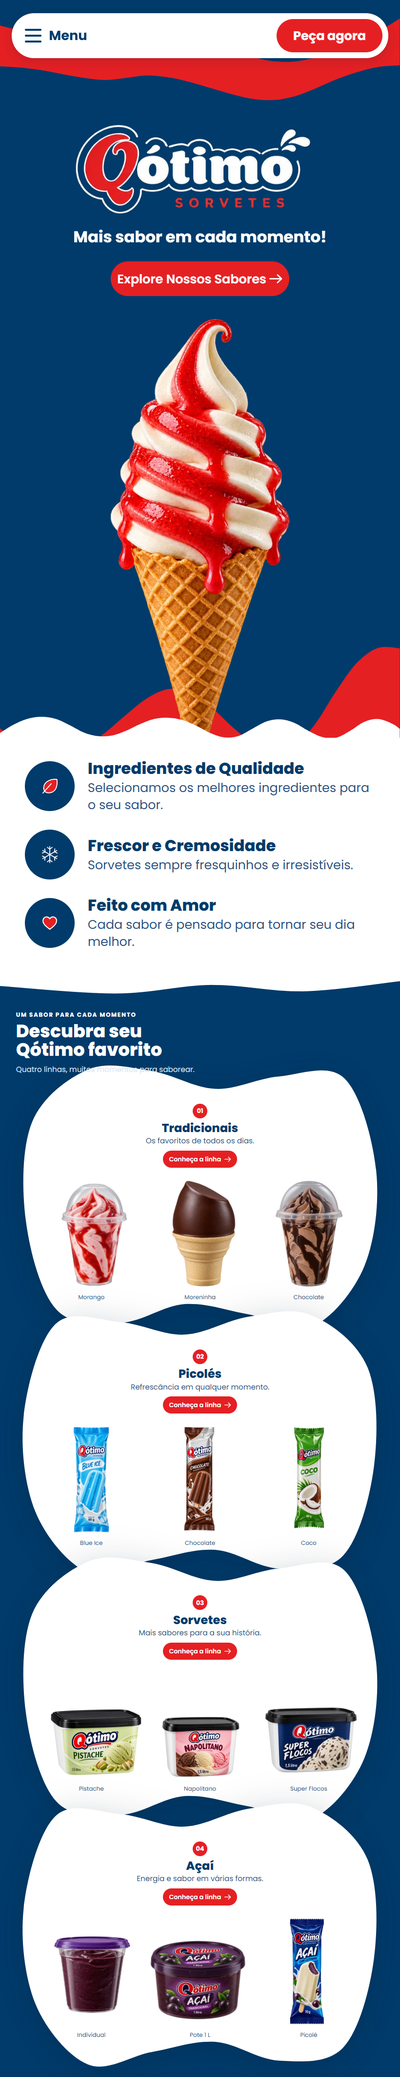
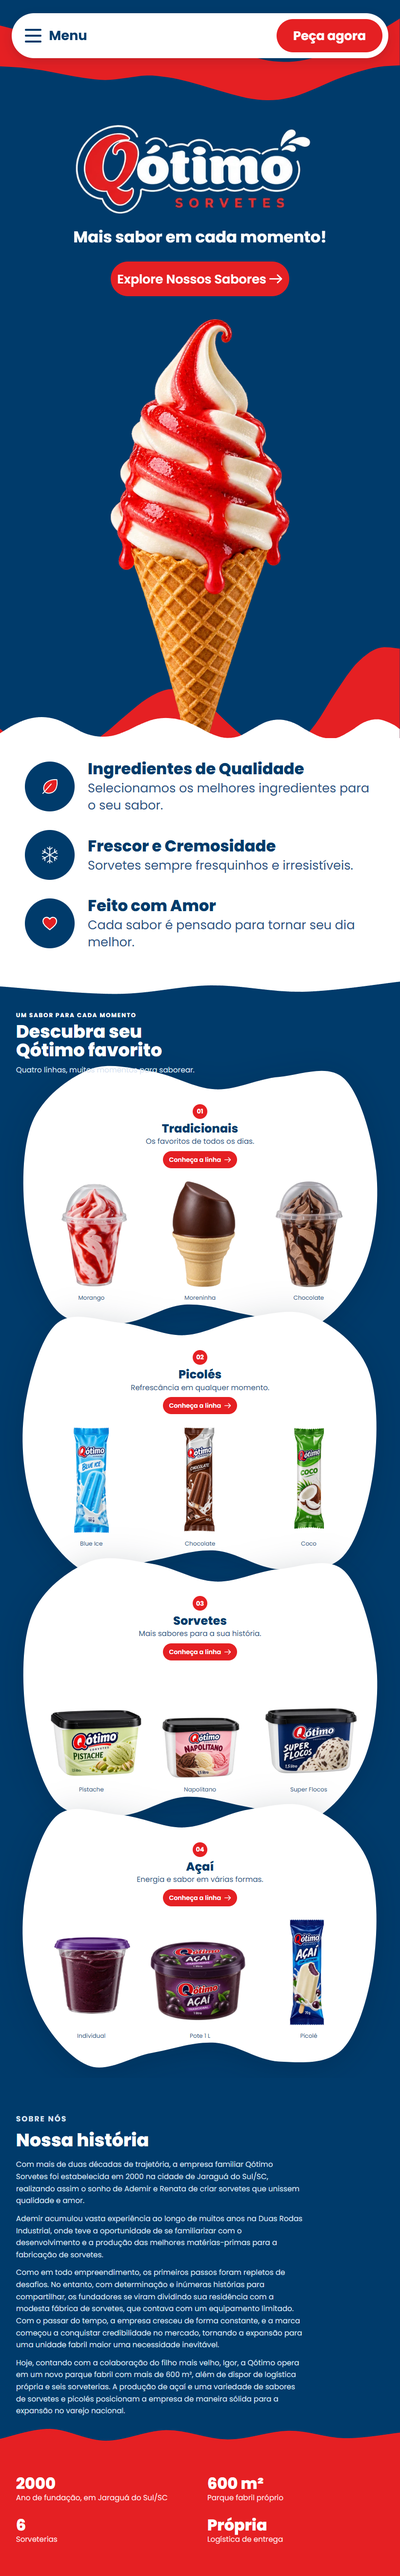
Secao Sobre nos: metade azul, metade vermelha
Nova secao depois de Linhas, com o texto institucional enviado. Da
destino real ao "Sobre nos" do menu, que estava com TODO desde a Fase 5.

O texto veio com as quebras de hifenizacao do PDF ("Sorve tes",
"desenvolvi mento", "compar tilhar", "fabri ca"); as palavras foram
remendadas. Nada mais do conteudo foi mexido, e o ultimo paragrafo
ganhou o ponto final que faltava.

Divisao azul/vermelho com divisa ondulada, na mesma linguagem do resto:
vertical na composicao de mesa, onda horizontal quando empilha. A divisa
e uma faixa estreita colada na esquerda do bloco vermelho — na primeira
tentativa o SVG ocupava a metade inteira e a curva ficava longe da
coluna, com os numeros caindo em cima do azul.

Os quatro marcos saem so do que o texto afirma: 2000 (fundacao,
Jaragua do Sul/SC), 600 m2 (parque fabril), 6 (sorveterias) e logistica
propria. Nenhum numero inventado.

Contraste conferido: branco sobre #E52023 da 4,64:1 e o tom dos rotulos
(#FFE3E3) fica acima de 4,5:1.

Tabela-alvo do heroi segue 31 de 31. Matriz de 14 resolucoes: MATRIZ OK,
sem estouro de texto na secao nova e sem rolagem lateral. Emendas 60 de
60. Reduced-motion OK.

diff --git a/site/index.html b/site/index.html
@@ -34,7 +34,6 @@
       <!-- TODO Fase 5: destino — hoje aponta para a seção de linhas -->
       <li><a href="#linhas">Produtos</a></li>
       <li><a href="#linhas">Linhas</a></li>
-      <!-- TODO Fase 5: destino — seção #sobre ainda não existe -->
       <li><a href="#sobre">Sobre nós</a></li>
       <!-- TODO Fase 5: destino — seção #contato ainda não existe -->
       <li><a href="#contato">Contato</a></li>
@@ -213,6 +212,54 @@
           </ul>
         </article>
       </div>
+    </div>
+  </section>
+
+
+  <!-- ===================== SOBRE ===================== -->
+  <section class="sobre" id="sobre" aria-labelledby="sobre-titulo">
+
+    <!-- a metade vermelha: divisa ondulada na vertical (mesa) e
+         onda na horizontal quando empilha -->
+
+    <div class="sobre__texto reveal">
+      <p class="sobre__eyebrow">Sobre nós</p>
+      <h2 class="sobre__titulo" id="sobre-titulo">Nossa história</h2>
+
+      <p>Com mais de duas décadas de trajetória, a empresa familiar Qótimo Sorvetes foi
+        estabelecida em 2000 na cidade de Jaraguá do Sul/SC, realizando assim o sonho de
+        Ademir e Renata de criar sorvetes que unissem qualidade e amor.</p>
+
+      <p>Ademir acumulou vasta experiência ao longo de muitos anos na Duas Rodas Industrial,
+        onde teve a oportunidade de se familiarizar com o desenvolvimento e a produção das
+        melhores matérias-primas para a fabricação de sorvetes.</p>
+
+      <p>Como em todo empreendimento, os primeiros passos foram repletos de desafios. No
+        entanto, com determinação e inúmeras histórias para compartilhar, os fundadores se
+        viram dividindo sua residência com a modesta fábrica de sorvetes, que contava com um
+        equipamento limitado. Com o passar do tempo, a empresa cresceu de forma constante, e a
+        marca começou a conquistar credibilidade no mercado, tornando a expansão para uma
+        unidade fabril maior uma necessidade inevitável.</p>
+
+      <p>Hoje, contando com a colaboração do filho mais velho, Igor, a Qótimo opera em um novo
+        parque fabril com mais de 600 m², além de dispor de logística própria e seis
+        sorveterias. A produção de açaí e uma variedade de sabores de sorvetes e picolés
+        posicionam a empresa de maneira sólida para a expansão no varejo nacional.</p>
+    </div>
+
+    <div class="sobre__vermelho reveal">
+      <svg class="sobre__divisa" viewBox="0 0 120 1000" preserveAspectRatio="none" aria-hidden="true" focusable="false">
+      <path fill="#E52023" d="M65.1 0C66.2 11.9 70.9 47.6 72 71.4C73.2 95.2 73.2 119 72 142.9C70.8 166.7 67.7 190.5 64.9 214.3C62 238.1 57.8 261.9 54.9 285.7C52.1 309.5 49.1 333.3 48 357.1C46.8 381 46.8 404.8 48 428.6C49.2 452.4 52.3 476.2 55.1 500C58 523.8 62.2 547.6 65.1 571.4C67.9 595.2 70.9 619 72 642.9C73.2 666.7 73.2 690.5 72 714.3C70.8 738.1 67.7 761.9 64.9 785.7C62 809.5 57.8 833.3 54.9 857.1C52.1 881 49.1 904.8 48 928.6C46.8 952.4 48 988.1 48 1000L120 1000L120 0Z"/>
+    </svg>
+      <svg class="sobre__onda" viewBox="0 0 1440 90" preserveAspectRatio="none" aria-hidden="true" focusable="false">
+        <path fill="#E52023" d="M0 46C30 40.7 116.7 13 180 14C243.3 15 310 51.3 380 52C450 52.7 526.7 18.7 600 18C673.3 17.3 746.7 47.7 820 48C893.3 48.3 970 20.7 1040 20C1110 19.3 1173.3 43 1240 44C1306.7 45 1406.7 29 1440 26L1440 90L0 90Z"/>
+      </svg>
+      <ul class="marcos">
+      <li><strong>2000</strong><span>Ano de fundação, em Jaraguá do Sul/SC</span></li>
+      <li><strong>600 m²</strong><span>Parque fabril próprio</span></li>
+      <li><strong>6</strong><span>Sorveterias</span></li>
+        <li><strong>Própria</strong><span>Logística de entrega</span></li>
+      </ul>
     </div>
   </section>
 

diff --git a/site/styles.css b/site/styles.css
@@ -486,6 +486,88 @@ body>*{--u:min(100cqw / 1713, 100svh / 918, 1.25px)}
   white-space:nowrap;     /* rotulo de produto, nao texto corrido */
 }
 
+/* ----------------------------------------------------------------- sobre
+   Metade azul, metade vermelha. A divisa entre as duas e ondulada, como o
+   resto do site: vertical na composicao de mesa, horizontal quando empilha.
+   ======================================================================= */
+
+.sobre{
+  position:relative;
+  overflow:hidden;
+  background:var(--navy);
+  display:grid;
+  grid-template-columns:minmax(0,1.15fr) minmax(0,1fr);
+  align-items:stretch;
+  gap:clamp(28px,4vw,80px);
+  padding:clamp(56px,7vw,120px) var(--gutter);
+  isolation:isolate;
+}
+
+/* O bloco vermelho vai da coluna ate a borda direita da tela; a divisa e
+   uma faixa estreita colada na esquerda dele, que desenha so a ondulacao.
+   (Fazer o SVG ocupar a metade inteira punha a curva longe da coluna e os
+   numeros caiam em cima do azul.) */
+.sobre__vermelho{
+  position:relative;z-index:1;
+  background:var(--vermelho);
+  margin-block:calc(-1 * clamp(56px,7vw,120px));   /* colar no topo e na base */
+  margin-inline-end:calc(-1 * var(--gutter));
+  padding:clamp(56px,7vw,120px) var(--gutter) clamp(56px,7vw,120px) 0;
+  display:grid;align-items:center;
+}
+.sobre__divisa{
+  position:absolute;z-index:0;
+  inset-block:0;
+  inset-inline-end:100%;
+  width:clamp(44px,5.2vw,96px);height:100%;
+  max-width:none;
+}
+.sobre__onda{display:none}
+
+.sobre__texto{
+  position:relative;z-index:1;
+  max-width:62ch;
+  display:grid;gap:clamp(12px,1.2vw,20px);
+}
+.sobre__texto p{
+  font-size:var(--fs-corpo);
+  line-height:1.62;
+  color:var(--corpo-claro);
+  text-wrap:pretty;
+}
+
+.sobre__eyebrow{
+  font-size:var(--fs-legenda);
+  font-weight:700;letter-spacing:.14em;text-transform:uppercase;
+  color:var(--branco);
+}
+.sobre__titulo{
+  font-size:var(--fs-titulo);      /* mesmo teto de 64px da secao Linhas */
+  font-weight:800;line-height:1.04;
+  color:var(--branco);
+  margin-block-end:clamp(6px,.8vw,14px);
+}
+
+/* marcos: numeros sobre o vermelho */
+.marcos{
+  display:grid;gap:clamp(18px,2.2vw,34px);
+  padding-inline-start:clamp(14px,2vw,32px);
+}
+.marcos li{
+  display:grid;gap:calc(2px + .1vw);
+}
+.marcos strong{
+  font-size:clamp(2rem,3.4vw,3rem);
+  font-weight:800;line-height:1;
+  color:var(--branco);
+}
+.marcos span{
+  font-size:var(--fs-corpo);
+  color:#FFE3E3;                   /* 4,6:1 sobre o vermelho da marca */
+  line-height:1.35;
+  text-wrap:pretty;
+}
+
 /* ---------------------------------------------------- pontos de quebra */
 
 /* Notebooks estreitos (900-1200): o card fica mais alto para o texto e os
@@ -688,6 +770,30 @@ body>*{--u:min(100cqw / 1713, 100svh / 918, 1.25px)}
     justify-items:center;
   }
   .linha__blob{inset-inline-start:-3%;width:106%}
+
+  /* sobre: empilha, e a divisa vira onda horizontal no topo do vermelho */
+  .sobre{
+    grid-template-columns:minmax(0,1fr);
+    gap:0;
+    padding:clamp(44px,9vw,72px) var(--gutter) 0;
+  }
+  .sobre__divisa{display:none}
+  .sobre__vermelho{
+    margin:clamp(44px,9vw,72px) calc(-1 * var(--gutter)) 0;
+    padding:clamp(28px,6vw,48px) var(--gutter) clamp(40px,8vw,64px);
+    background:var(--vermelho);
+  }
+  .sobre__onda{
+    display:block;
+    position:absolute;
+    inset-inline:0;inset-block-end:100%;
+    width:100%;height:clamp(34px,7vw,70px);
+  }
+  .marcos{
+    padding-inline-start:0;
+    grid-template-columns:repeat(2,minmax(0,1fr));
+    gap:clamp(18px,4vw,30px);
+  }
   .rolar{display:none}   /* empilhado: os pilares ja preenchem a faixa */
 
   .linha__produtos{
